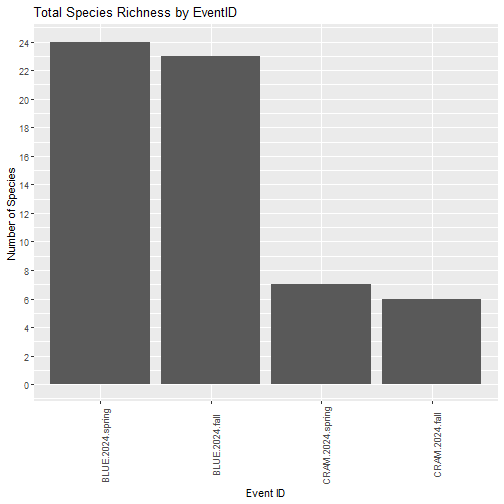
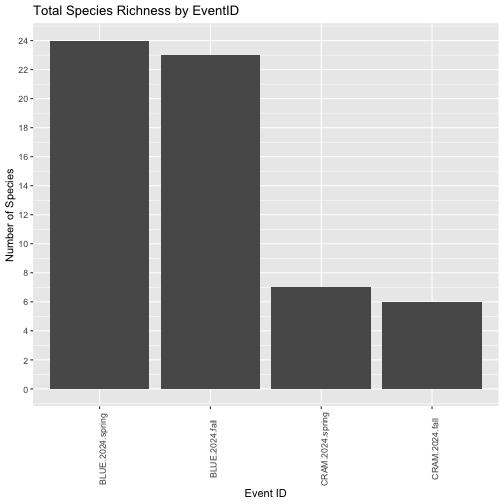
knit for token update

diff --git a/tutorials/R/biodiversity/fish/fish-count-summary.html b/tutorials/R/biodiversity/fish/fish-count-summary.html
@@ -126,8 +126,12 @@ section.footnotes {
 </ul>
 <h2 id="sec:things-you-ll-need-to-complete-this-tutorial">Things You’ll Need To Complete This Tutorial</h2>
 <h3 id="sec:r-programming-language">R Programming Language</h3>
-<p>You will need a current version of R to complete this tutorial. We also recommend
-the RStudio IDE to work with R.</p>
+<ul>
+<li>You will need a current version of R (4+) to complete this tutorial. We also recommend
+the RStudio IDE to work with R.</li>
+<li>Create a <a href="https://www.neonscience.org/about/user-accounts" target="_blank">NEON user account</a></li>
+<li>Generate an <a href="https://www.neonscience.org/resources/learning-hub/tutorials/api-token-setup" target="_blank">API token</a> for downloading data</li>
+</ul>
 <h3 id="sec:r-packages-to-install">R Packages To Install</h3>
 <p>Start by installing any packages that are used during the course of the tutorial (if necessary) and setting options. Installation can be run once, then periodically to get package updates.</p>
 <ul>
@@ -139,7 +143,8 @@ the RStudio IDE to work with R.</p>
 <p><a href="/packages-in-r" target="_blank"> More on Packages in R </a>– Adapted from Software Carpentry.</p>
 </div>
 <h2 id="sec:1-setup">1. Setup</h2>
-<h3 id="sec:load-r-packages">Load R Packages</h3>
+<p>As of June 2026, NEON requires an API token for data downloads, to reduce bot scraping and improve user support. Tokens can be generated in NEON data portal user accounts - log in to your account or create one, and go to the API Tokens section. For best practices in storing and using tokens, follow the instructions <a href="https://www.neonscience.org/resources/learning-hub/tutorials/api-token-setup" target="_blank">here</a>.</p>
+<h3 id="sec:load-r-packages-and-token">Load R Packages and token</h3>
 <pre><code>library(neonUtilities)
 
 library(ggplot2)
@@ -147,6 +152,8 @@ library(ggplot2)
 library(dplyr)
 
 library(tidyr)
+
+token &lt;- Sys.getenv(&quot;NEON_TOKEN&quot;)
 </code></pre>
 <h3 id="sec:download-neon-fish-data">Download NEON Fish Data</h3>
 <p>Download <a href="https://data.neonscience.org/data-products/DP1.20107.001" target="_blank">Fish electrofishing, gill netting, and fyke netting counts</a> data using the <code>loadByProduct()</code> function in the <code>neonUtilities</code> package. Inputs needed to the function are:</p>
@@ -157,6 +164,7 @@ library(tidyr)
 <li><code>check.size</code>: should this function prompt the user with an estimated download size? Set to <code>FALSE</code> here for ease of processing as a script, but good to leave as default <code>TRUE</code> when downloading a dataset for the first time.</li>
 <li><code>startdate</code> and <code>enddate</code>: we will work with 2024 data in this tutorial</li>
 <li><code>release</code>: a particular data release, or <code>current</code> for the most recent release</li>
+<li><code>token</code>: your NEON API token</li>
 </ul>
 <p>Refer to the <a href="https://www.neonscience.org/sites/default/files/cheat-sheet-neonUtilities.pdf" target="_blank">cheat sheet</a>
 for the <code>neonUtilities</code> package for more details.</p>
@@ -168,7 +176,8 @@ for the <code>neonUtilities</code> package for more details.</p>
   check.size = FALSE,
   startdate = &quot;2024-01&quot;,
   enddate = &quot;2024-12&quot;,
-  release = 'RELEASE-2026')
+  release = 'RELEASE-2026',
+  token=token)
 </code></pre>
 <h3 id="sec:neon-data-citation">NEON Data Citation</h3>
 <p>The use of NEON data should be cited according to our
@@ -185,16 +194,9 @@ for the <code>neonUtilities</code> package for more details.</p>
 
 names(fshdat)
 
-##  [1] &quot;categoricalCodes_20107&quot;     
-##  [2] &quot;citation_20107_RELEASE-2026&quot;
-##  [3] &quot;fsh_bulkCount&quot;              
-##  [4] &quot;fsh_fieldData&quot;              
-##  [5] &quot;fsh_perFish&quot;                
-##  [6] &quot;fsh_perPass&quot;                
-##  [7] &quot;issueLog_20107&quot;             
-##  [8] &quot;readme_20107&quot;               
-##  [9] &quot;validation_20107&quot;           
-## [10] &quot;variables_20107&quot;
+##  [1] &quot;categoricalCodes_20107&quot;      &quot;citation_20107_RELEASE-2026&quot; &quot;fsh_bulkCount&quot;               &quot;fsh_fieldData&quot;              
+##  [5] &quot;fsh_perFish&quot;                 &quot;fsh_perPass&quot;                 &quot;issueLog_20107&quot;              &quot;readme_20107&quot;               
+##  [9] &quot;validation_20107&quot;            &quot;variables_20107&quot;
 </code></pre>
 <ul>
 <li>
@@ -314,20 +316,13 @@ fixedRandomReach &lt;- fsh_fieldData %&gt;%
 
 print(fixedRandomReach)
 
-##          eventID              namedLocation
-## 1 CRAM.2024.fall CRAM.AOS.riparian.point.03
-## 2 CRAM.2024.fall CRAM.AOS.riparian.point.06
-## 3 CRAM.2024.fall CRAM.AOS.riparian.point.07
-## 4 CRAM.2024.fall CRAM.AOS.riparian.point.08
-## 5 CRAM.2024.fall CRAM.AOS.riparian.point.09
-## 6 CRAM.2024.fall CRAM.AOS.riparian.point.10
-##   fixedRandomReach samplingImpractical
-## 1            fixed                &lt;NA&gt;
-## 2            fixed          logistical
-## 3           random          logistical
-## 4           random          logistical
-## 5           random                &lt;NA&gt;
-## 6            fixed          logistical
+##          eventID              namedLocation fixedRandomReach samplingImpractical
+## 1 CRAM.2024.fall CRAM.AOS.riparian.point.03            fixed                &lt;NA&gt;
+## 2 CRAM.2024.fall CRAM.AOS.riparian.point.06            fixed          logistical
+## 3 CRAM.2024.fall CRAM.AOS.riparian.point.07           random          logistical
+## 4 CRAM.2024.fall CRAM.AOS.riparian.point.08           random          logistical
+## 5 CRAM.2024.fall CRAM.AOS.riparian.point.09           random                &lt;NA&gt;
+## 6 CRAM.2024.fall CRAM.AOS.riparian.point.10            fixed          logistical
 
 samplerType &lt;- fsh_perPass %&gt;% 
   filter(eventID== &quot;CRAM.2024.fall&quot;) %&gt;%
@@ -338,24 +333,15 @@ samplerType &lt;- fsh_perPass %&gt;%
 
 print(samplerType)
 
-##          eventID              namedLocation
-## 1 CRAM.2024.fall CRAM.AOS.riparian.point.03
-## 2 CRAM.2024.fall CRAM.AOS.riparian.point.03
-## 3 CRAM.2024.fall CRAM.AOS.riparian.point.03
-## 4 CRAM.2024.fall CRAM.AOS.riparian.point.03
-## 5 CRAM.2024.fall CRAM.AOS.riparian.point.03
-## 6 CRAM.2024.fall CRAM.AOS.riparian.point.09
-## 7 CRAM.2024.fall CRAM.AOS.riparian.point.09
-## 8 CRAM.2024.fall CRAM.AOS.riparian.point.09
-##   passNumber   samplerType
-## 1          1 electrofisher
-## 2          2 electrofisher
-## 3          3 electrofisher
-## 4          4 mini-fyke net
-## 5          5      gill net
-## 6          1 electrofisher
-## 7          4 mini-fyke net
-## 8          5      gill net
+##          eventID              namedLocation passNumber   samplerType
+## 1 CRAM.2024.fall CRAM.AOS.riparian.point.03          1 electrofisher
+## 2 CRAM.2024.fall CRAM.AOS.riparian.point.03          2 electrofisher
+## 3 CRAM.2024.fall CRAM.AOS.riparian.point.03          3 electrofisher
+## 4 CRAM.2024.fall CRAM.AOS.riparian.point.03          4 mini-fyke net
+## 5 CRAM.2024.fall CRAM.AOS.riparian.point.03          5      gill net
+## 6 CRAM.2024.fall CRAM.AOS.riparian.point.09          1 electrofisher
+## 7 CRAM.2024.fall CRAM.AOS.riparian.point.09          4 mini-fyke net
+## 8 CRAM.2024.fall CRAM.AOS.riparian.point.09          5      gill net
 </code></pre>
 <p>Now let’s take a look at the capture data from Crampton Lake during the Fall of 2024, which contains data from one fixed reach and one random reach.</p>
 <pre><code># Subset summary data by eventID

diff --git a/tutorials/R/biodiversity/fish/fish-count-summary.md b/tutorials/R/biodiversity/fish/fish-count-summary.md
@@ -34,8 +34,11 @@ After completing this tutorial you will be able to:
 ## Things You’ll Need To Complete This Tutorial
 
 ### R Programming Language
-You will need a current version of R to complete this tutorial. We also recommend 
+
+* You will need a current version of R (4+) to complete this tutorial. We also recommend 
 the RStudio IDE to work with R. 
+* Create a <a href="https://www.neonscience.org/about/user-accounts" target="_blank">NEON user account</a>
+* Generate an <a href="https://www.neonscience.org/resources/learning-hub/tutorials/api-token-setup" target="_blank">API token</a> for downloading data
 
 ### R Packages To Install
 Start by installing any packages that are used during the course of the tutorial (if necessary) and setting options. Installation can be run once, then periodically to get package updates.
@@ -51,7 +54,9 @@ Start by installing any packages that are used during the course of the tutorial
 
 ## 1. Setup
 
-### Load R Packages
+As of June 2026, NEON requires an API token for data downloads, to reduce bot scraping and improve user support. Tokens can be generated in NEON data portal user accounts - log in to your account or create one, and go to the API Tokens section. For best practices in storing and using tokens, follow the instructions <a href="https://www.neonscience.org/resources/learning-hub/tutorials/api-token-setup" target="_blank">here</a>.
+
+### Load R Packages and token
 
     library(neonUtilities)
 
@@ -60,6 +65,8 @@ Start by installing any packages that are used during the course of the tutorial
     library(dplyr)
 
     library(tidyr)
+
+    token <- Sys.getenv("NEON_TOKEN")
 
 ### Download NEON Fish Data
 Download <a href="https://data.neonscience.org/data-products/DP1.20107.001" target="_blank">Fish electrofishing, gill netting, and fyke netting counts</a> data using the `loadByProduct()` function in the `neonUtilities` package. Inputs needed to the function are:
@@ -70,6 +77,7 @@ Download <a href="https://data.neonscience.org/data-products/DP1.20107.001" targ
 * `check.size`: should this function prompt the user with an estimated download size? Set to `FALSE` here for ease of processing as a script, but good to leave as default `TRUE` when downloading a dataset for the first time.
 * `startdate` and `enddate`: we will work with 2024 data in this tutorial
 * `release`: a particular data release, or `current` for the most recent release
+* `token`: your NEON API token
 
 Refer to the <a href="https://www.neonscience.org/sites/default/files/cheat-sheet-neonUtilities.pdf" target="_blank">cheat sheet</a> 
 for the `neonUtilities` package for more details.
@@ -84,7 +92,8 @@ For more background on NEON data structures and use of the neonUtilities package
       check.size = FALSE,
       startdate = "2024-01",
       enddate = "2024-12",
-      release = 'RELEASE-2026')
+      release = 'RELEASE-2026',
+      token=token)
 
 ### NEON Data Citation
 The use of NEON data should be cited according to our
@@ -105,16 +114,9 @@ The data are downloaded into a list of separate tables. Before working with the 
 
     names(fshdat)
 
-    ##  [1] "categoricalCodes_20107"     
-    ##  [2] "citation_20107_RELEASE-2026"
-    ##  [3] "fsh_bulkCount"              
-    ##  [4] "fsh_fieldData"              
-    ##  [5] "fsh_perFish"                
-    ##  [6] "fsh_perPass"                
-    ##  [7] "issueLog_20107"             
-    ##  [8] "readme_20107"               
-    ##  [9] "validation_20107"           
-    ## [10] "variables_20107"
+    ##  [1] "categoricalCodes_20107"      "citation_20107_RELEASE-2026" "fsh_bulkCount"               "fsh_fieldData"              
+    ##  [5] "fsh_perFish"                 "fsh_perPass"                 "issueLog_20107"              "readme_20107"               
+    ##  [9] "validation_20107"            "variables_20107"
 * The `categoricalCodes` file provides controlled lists used in the data
 
 * The `issueLog` and `readme` have the same information that you will find on the data product landing page of the data portal.
@@ -253,20 +255,13 @@ Information about fixed vs. random reaches is found in the `fsh_fieldData` table
 
     print(fixedRandomReach)
 
-    ##          eventID              namedLocation
-    ## 1 CRAM.2024.fall CRAM.AOS.riparian.point.03
-    ## 2 CRAM.2024.fall CRAM.AOS.riparian.point.06
-    ## 3 CRAM.2024.fall CRAM.AOS.riparian.point.07
-    ## 4 CRAM.2024.fall CRAM.AOS.riparian.point.08
-    ## 5 CRAM.2024.fall CRAM.AOS.riparian.point.09
-    ## 6 CRAM.2024.fall CRAM.AOS.riparian.point.10
-    ##   fixedRandomReach samplingImpractical
-    ## 1            fixed                <NA>
-    ## 2            fixed          logistical
-    ## 3           random          logistical
-    ## 4           random          logistical
-    ## 5           random                <NA>
-    ## 6            fixed          logistical
+    ##          eventID              namedLocation fixedRandomReach samplingImpractical
+    ## 1 CRAM.2024.fall CRAM.AOS.riparian.point.03            fixed                <NA>
+    ## 2 CRAM.2024.fall CRAM.AOS.riparian.point.06            fixed          logistical
+    ## 3 CRAM.2024.fall CRAM.AOS.riparian.point.07           random          logistical
+    ## 4 CRAM.2024.fall CRAM.AOS.riparian.point.08           random          logistical
+    ## 5 CRAM.2024.fall CRAM.AOS.riparian.point.09           random                <NA>
+    ## 6 CRAM.2024.fall CRAM.AOS.riparian.point.10            fixed          logistical
 
     samplerType <- fsh_perPass %>% 
       filter(eventID== "CRAM.2024.fall") %>%
@@ -277,24 +272,15 @@ Information about fixed vs. random reaches is found in the `fsh_fieldData` table
 
     print(samplerType)
 
-    ##          eventID              namedLocation
-    ## 1 CRAM.2024.fall CRAM.AOS.riparian.point.03
-    ## 2 CRAM.2024.fall CRAM.AOS.riparian.point.03
-    ## 3 CRAM.2024.fall CRAM.AOS.riparian.point.03
-    ## 4 CRAM.2024.fall CRAM.AOS.riparian.point.03
-    ## 5 CRAM.2024.fall CRAM.AOS.riparian.point.03
-    ## 6 CRAM.2024.fall CRAM.AOS.riparian.point.09
-    ## 7 CRAM.2024.fall CRAM.AOS.riparian.point.09
-    ## 8 CRAM.2024.fall CRAM.AOS.riparian.point.09
-    ##   passNumber   samplerType
-    ## 1          1 electrofisher
-    ## 2          2 electrofisher
-    ## 3          3 electrofisher
-    ## 4          4 mini-fyke net
-    ## 5          5      gill net
-    ## 6          1 electrofisher
-    ## 7          4 mini-fyke net
-    ## 8          5      gill net
+    ##          eventID              namedLocation passNumber   samplerType
+    ## 1 CRAM.2024.fall CRAM.AOS.riparian.point.03          1 electrofisher
+    ## 2 CRAM.2024.fall CRAM.AOS.riparian.point.03          2 electrofisher
+    ## 3 CRAM.2024.fall CRAM.AOS.riparian.point.03          3 electrofisher
+    ## 4 CRAM.2024.fall CRAM.AOS.riparian.point.03          4 mini-fyke net
+    ## 5 CRAM.2024.fall CRAM.AOS.riparian.point.03          5      gill net
+    ## 6 CRAM.2024.fall CRAM.AOS.riparian.point.09          1 electrofisher
+    ## 7 CRAM.2024.fall CRAM.AOS.riparian.point.09          4 mini-fyke net
+    ## 8 CRAM.2024.fall CRAM.AOS.riparian.point.09          5      gill net
 Now let's take a look at the capture data from Crampton Lake during the Fall of 2024, which contains data from one fixed reach and one random reach.
 
 